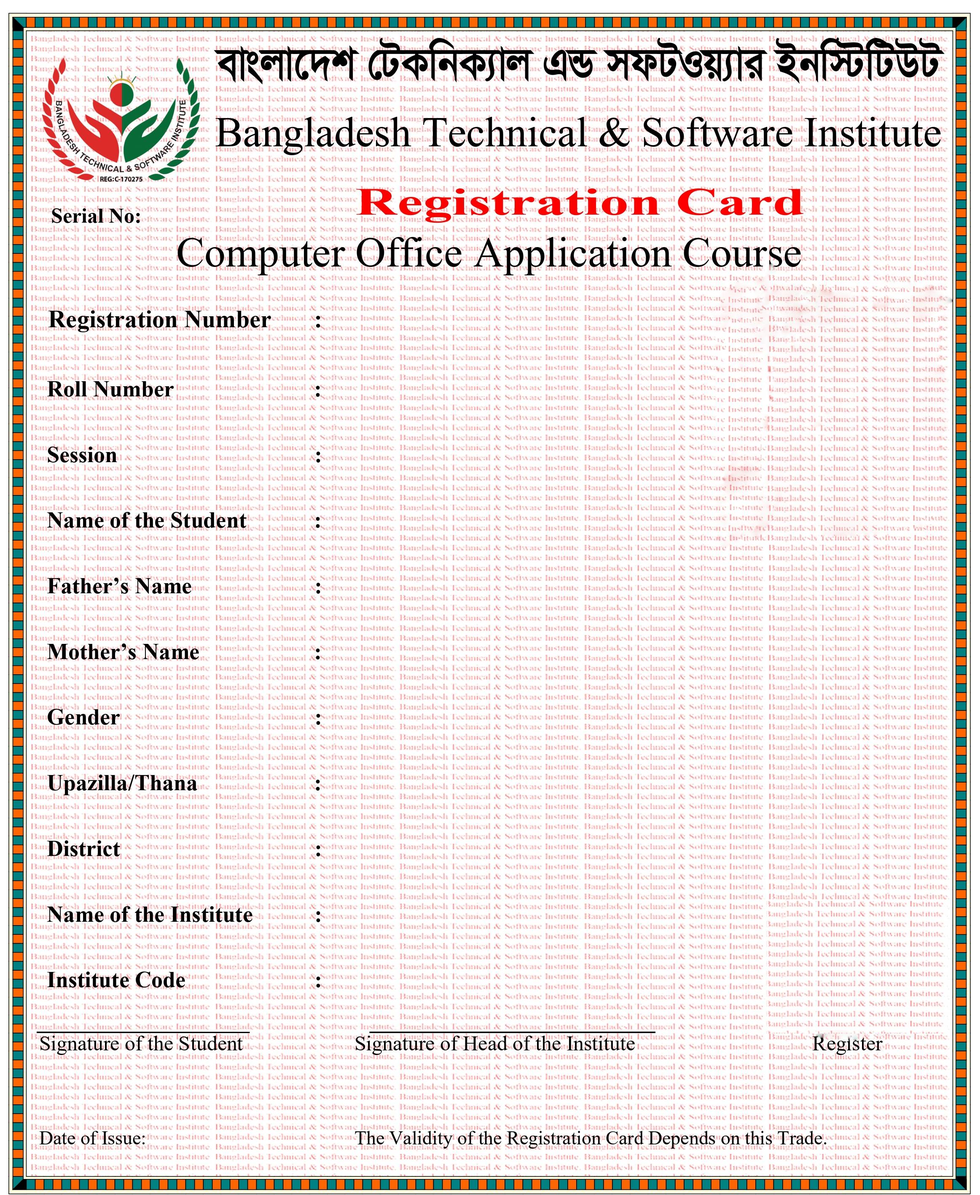
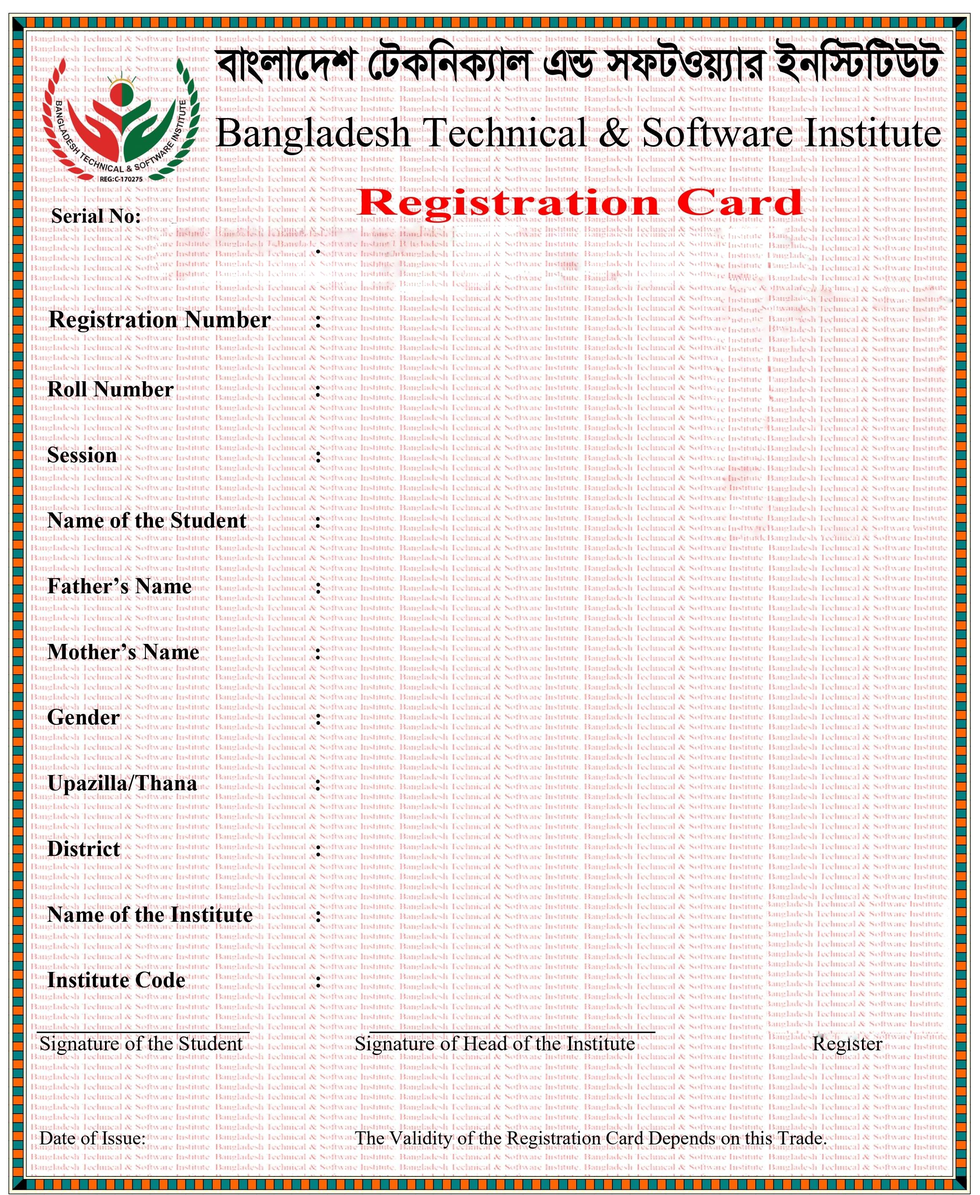
fix register

Changed region(s): [[0.1548, 0.1863, 0.8361, 0.2484]]

diff --git a/public/css/app.css b/public/css/app.css
@@ -779,6 +779,21 @@ select {
 .left-\[84\.3\%\] {
   left: 84.3%;
 }
+.top-\[18\%\] {
+  top: 18%;
+}
+.left-\[21\%\] {
+  left: 21%;
+}
+.left-\[30\%\] {
+  left: 30%;
+}
+.left-\[40\%\] {
+  left: 40%;
+}
+.top-\[20\%\] {
+  top: 20%;
+}
 .z-0 {
   z-index: 0;
 }

diff --git a/resources/views/admin/student/registrationForm.blade.php b/resources/views/admin/student/registrationForm.blade.php
@@ -21,6 +21,7 @@
           <div class="w-full print:hidden flex justify-end"><button onclick="window.print()" class="px-3 py-1 rounded-md bg-green-600 text-white ">Print</button></div>
           <div class="r-bg relative w-full h-[600px] md:h-[130vh] text-lg font-bold print:h-[90vh]" style="background-image: url({{asset('images/register.jpg')}})">
               <div class="absolute top-[16%] left-[17%]  w-38 ">{{$student->id??''}}</div>
+              <div class="absolute top-[20%] left-[40%]  w-38 text-2xl">{{$student->subject->name??''}}</div>
               <div class="absolute top-[25.5%]  left-[35.8%]  w-38 ">{{$student->registration??'N/A'}}</div>
               <div class="absolute top-[31%] left-[35.8%]  w-38 ">{{$student->roll??'N/A'}}</div>
               <div class="absolute top-[36.5%] left-[35.8%]  w-38 ">{{$student->session->name??'N/A'}}</div>
